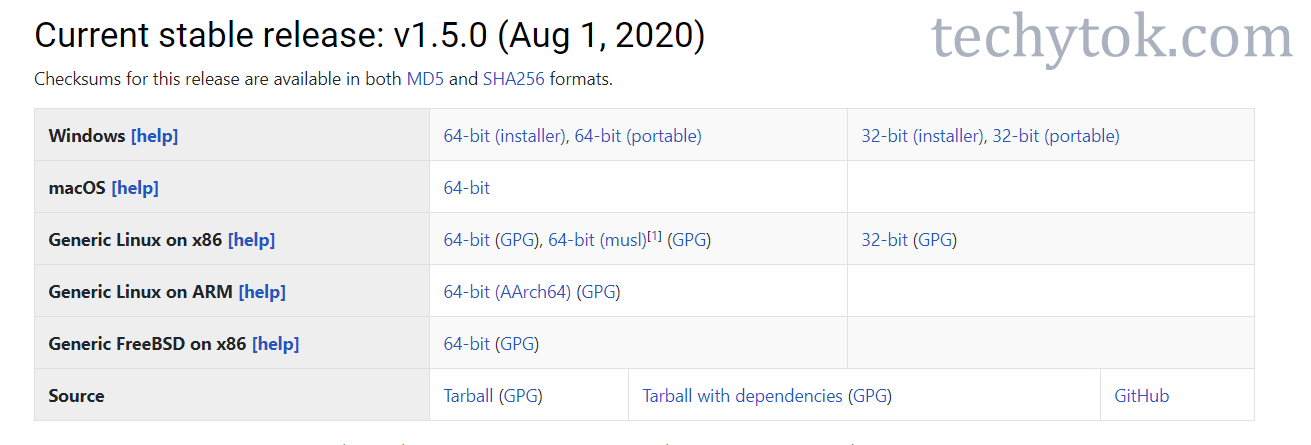
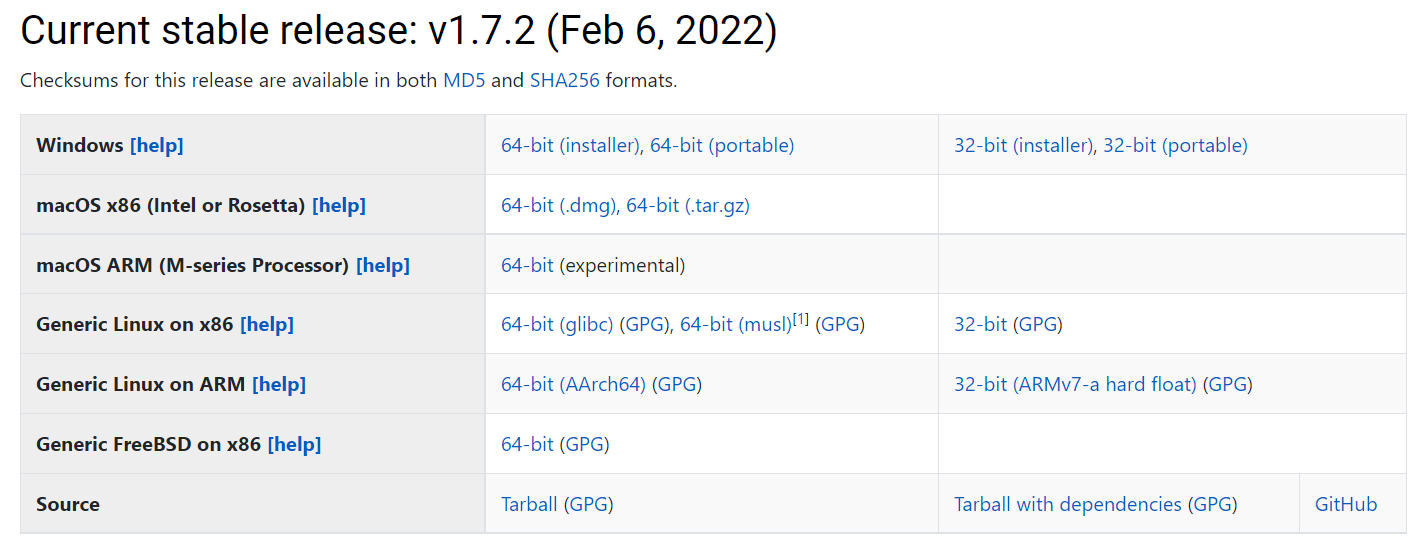
up

diff --git a/_posts/2021-12-21-coding-workflow.md b/_posts/2021-12-21-coding-workflow.md
@@ -302,6 +302,81 @@ This is a REPL which runs "inside" the namespace of the function. This means tha
 
 Please note that you can also change the value of any of the variables which exist inside the function, for example by writing `a .+= 2` . This is a double-edged sword and you have to pay attention to what you are doing if you are evaluating code inside the function context. Anyway, if you commit some mistakes, you can always restart the function debugging, so nothing you do in the debug console is permanent. 
 
+# Function profiling
+This section is an excerpt from the [code optimisation](https://techytok.com/code-optimisation-in-julia) lesson. 
+
+Profiling is the practice of measuing the execution time and memory usage of each part of a piece of code, in order to better understand how to optimise it. 
+In this section we will learn how to find the bottlenecks in the execution of a function, so that we know which parts of the function should be optimised. 
+
+As you probably already know, it is possible to measure the execution time of a function using the `@time` macro or preferably  `@btime` (which is included in the package `BenchmarkTools`). They are useful when we want to measure a single function call, but they give no information on what is making a function slow. For this reason we need a tool that enables us to identify which line of code is responsible for the bottleneck.
+
+Luckily there are two exceptional packages which help us in profiling: `Profile` and the Julia IDE for VSCode. Both of the tools will run the desired function once and will log the execution time of each line of code.
+
+`Profile` works completely in the REPL and will produce a log file. On the other hand, with the support of VSCode we will be able to display the profiling information in a graph.
+
+## Profile
+
+Let's write two new functions which perform heavy calculations:
+
+```julia
+function take_a_breath()
+    sleep(0.2)
+    return
+end
+
+function test8()
+    r=zeros(100,100)
+    take_a_breath()
+    for i in 1:100
+        A=rand(100,100)
+        r+=A
+    end
+    return r
+end
+```
+
+We shall now profile `test8`:
+
+```julia
+using Profile
+test8()
+Profile.clear()
+@profile test8()
+Profile.print()
+```
+
+If you see a log file extraordinarily long, run line 2 to 4 again as it is possible that you have profiled the compilation of some functions and not `test8`.
+{: .notice--info}
+
+You should see something like:
+
+![image-center](/assets/images/2019/10/26/profiler_log.png){: .align-center}
+
+The number 8 (which may vary) is an indication of how long a function runs. We also have a 1 and a 4, so probably this block is the one responsible for the bottleneck. Profile thus gives you a hint that at line 101 (line 8 of the code snippet) there is a bottleneck: who would have imagined that sleeping for 22ms would have been a slow down?
+
+Unfortunately using `Profile.print()` is not really user friendly and for this reason VSCode comes in our help!
+
+After having called `test8` again,  to make sure that the function has been properly compiled, we call the profile viewer macro `@profview`
+
+```julia
+test8()
+@profview test8()
+```
+
+If you have done everything correctly, a new panel should open on the right side of VSCode and you should see something like this:
+
+![image-center](/assets/images/2019/10/26/profiler.png){: .align-center}
+
+This list will show you at a glance which are the functions which take more time in your code (in our case, the `sleep` or `wait` function) and you can easily evaluate which are the bottlenecks. 
+
+It is also possible to display the profiling graphic as a  fire graphic. In order to do it, click on the small fire icon on the top right corner of the profiling window (you might have to install an extension). You will see something like this:
+
+![image-center](/assets/images/2019/10/26/flame_profiler.png){: .align-center}
+
+In this case, the flame graph is not that informative, since the function is extremely simple, but it is a handy tool when profiling complex functions. The graph should be read from the top to the bottom. The functions on the top usually call the functions under them. If more than one function is involved you will see several branches and the graph will become more complex.
+
+I encourage you to hover your mouse pointer on the functions in the fire graph: you will see the run time of each function involved and you are also able to jump to each function definition. In many cases, the profiler will also add a note on top of the called functions stating how long it took to run them. In order to scroll the flame graph, press `ALT` and use the scroll wheel, or click and drag the plot. To zoom on a region of the flame graph, point to it and use the scroll wheel. 
+
 # Problem tab
 
 VSCode will also suggest you if there are some possible problems with your code. For example, you might have called a function with the wrong arguments, or redefined a constant. It is possible to see all the possible problems with your code in the `Problems` tab:

diff --git a/_posts/2020-08-10-julia-vscode.md b/_posts/2020-08-10-julia-vscode.md
@@ -1,6 +1,6 @@
 ---
 title: "VSCode: the future for Julia development"
-date: 2020-08-10
+date: 2022-04-28
 header:
   caption: "[julia-vscode.org](https://www.julia-vscode.org/)"
   image: "/assets/images/2020/08/10/header.jpg"
@@ -36,17 +36,22 @@ In this tutorial we will first learn how to install Julia and then we will setup
 
 # Install Julia
 
-Depending on your operating system, you will need to download the appropriate Julia package from [julialang.org/downloads/](https://julialang.org/downloads/). It is suggested that you install the latest stable version (currently 1.5)
+Depending on your operating system, you will need to download the appropriate Julia package from [julialang.org/downloads/](https://julialang.org/downloads/). It is suggested that you install the latest stable version (currently 1.7)
 
 ![image-center](/assets/images/2020/08/10/fig1-julia-download.png){: .align-center}
 
 If you have **Windows** or **OSX**, just download and run the installer and follow the instructions. When you are prompted to choose an installation directory, I suggest you to choose your home directory: this way it will be easier when time comes to upgrade Julia to the next version. Nonetheless, the default directory should be fine. **Please take note of where you installed Julia**, since we will need this path when we setup VSCode.
 
-If you are a **Linux** user, you should download and extract the archive into an appropriate folder (pay attention to the architecture of the binaries you are downloading!). 
+If you are a **Linux** user, you should download and extract the archive into an appropriate folder (pay attention to the architecture of the binaries you are downloading!). Usually a good option is to unpack the julia binaries in your home directory. 
 
 ![image-center](/assets/images/2020/08/10/fig1b-julia-installation.png){: .align-center}
 
-You can find additional information on how to install Julia [here](https://julialang.org/downloads/platform/). I don't advise adding Julia to your system path unless you need to call Julia from the command line and you know what you are doing. 
+You can find additional information on how to install Julia [here](https://julialang.org/downloads/platform/). 
+I advise you to add julia to path during the installation (Windows) to make it easier to configure VSCode, and to call Julia directly from the terminal. If you use [Mac](https://julialang.org/downloads/platform/#macos) or [Linux](https://julialang.org/downloads/platform/#linux_and_freebsd), I advise you to add julia to path by editing your `.bashrc` or `.zshrc` and adding something like this (properly modified in accordance to where you saved the julia binary):
+```
+export PATH="$PATH:/path/to/<Julia directory>/bin"
+```bash
+
 
 Once you have installed Julia successfully, you can move to the next section: installing VSCode!
 
@@ -54,7 +59,7 @@ Once you have installed Julia successfully, you can move to the next section: in
 
 ![image-center](/assets/images/2020/08/10/fig2-vscode.png){: .align-center}
 
-You can get VSCode from its download page: https://code.visualstudio.com/Download
+You can get VSCode from its download page: [https://code.visualstudio.com/Download](https://code.visualstudio.com/Download)
 
 Please run the installer and start VSCode.
 
@@ -148,7 +153,8 @@ Whenever you feel like you need to add a note to the code, just add a `#` at the
 
 If you are new to coding, I suggest you to make a `.jl` file for each one of your small projects. In that file, you will write all your functions on the top, and use them on the bottom part of the script. If you decide to group your code in cells (`#%%`), which I strongly advise when you are writing your first pieces of code,  you should write a small annotation before every cell to remember what they do. 
 
-For more informations about the Julia extension for VSCode, please visit the [official website](https://www.julia-vscode.org/) and read the [documentation](https://www.julia-vscode.org/docs/stable/). At the time of writing this guide, the documentation for the Julia VSCode extension is not yet complete and many pages are still missing since many new features are being ported from Juno to VSCode, but in the near future you can expect a rich and complete documentation. 
+If you are interested to see some of the more advanced features of VSCode, please refere to the lesson on [VSCode workflow](https://techytok.com/lesson-workflow/) and [profiling](https://techytok.com/code-optimisation-in-julia/#profile). 
+For more informations about the Julia extension for VSCode, please visit the [official website](https://www.julia-vscode.org/) and read the [documentation](https://www.julia-vscode.org/docs/stable/). At the time of writing this guide, the documentation for the Julia VSCode extension is not yet complete and many pages are still missing since many new features are being ported from Juno to VSCode, but in the near future you can expect a rich and complete documentation.
 
 
 # Conclusions

diff --git a/_posts/2019-11-01-introduction.md b/_posts/2019-11-01-introduction.md
@@ -30,7 +30,7 @@ Before we can start delving in the wonderful world of Julia, we need to be able 
 
 We will deal with two ways to run Julia code: the first one is through the Julia REPL, the latter is through the Juno IDE.
 
-To install Julia and the Juno IDE, please follow [this]( https://techytok.com/atom-and-juno-setup-for-julia/ ) guide!
+To install Julia and VSCode, please follow [this]( https://techytok.com/julia-vscode/ ) guide!
 
 # REPL
 
@@ -52,11 +52,11 @@ That's it, during the next lessons simply type the code snippets inside the REPL
 
 Although you can copy paste the code, I encourage you to type it yourself as it is useful to better remember the lesson!
 
-# Juno IDE
+# VSCode
 
-Sometimes, especially when your code starts to become pretty lengthy, it is useful to organise it in scripts, i.e. files ending with the `.jl` extension. The Juno IDE lets you edit such files and run them directly line by line from the editor.
+Sometimes, especially when your code starts to become pretty lengthy, it is useful to organise it in scripts, i.e. files ending with the `.jl` extension. VSCode lets you edit such files and run them directly line by line from the editor.
 
-To run a line of code, simply click on the line and press `Ctrl+Enter`.
+To run a line of code, simply click on the line and press `Alt+Enter`.
 
 To run a block of code altogether, include it between `#%%` annotations like this:
 
@@ -70,8 +70,8 @@ println("TechyTok!")
 
 and press `Alt-Shift-Enter `.
 
-I encourage you to take a look at the [official documentation]( https://docs.junolab.org/latest/man/basic_usage/ ) for further details on how to use the Juno IDE.
+I encourage you to take a look at the [official documentation]( https://www.julia-vscode.org/ ) for further details on how to use VSCode.
 
 # Conclusions
 
-You should now be able to run Julia code either in the REPL or inside the Juno IDE and you are now ready to move on to the first real lesson on Julia!
+You should now be able to run Julia code either in the REPL or inside VSCode and you are now ready to move on to the first real lesson on Julia!

diff --git a/_posts/2019-10-26-code-optimisation-in-julia.md b/_posts/2019-10-26-code-optimisation-in-julia.md
@@ -211,6 +211,7 @@ Variables
 As you can see `r` at the beginning is an `Int64` and then is converted into a `Float64`, which slows down the function. In this case it is enough to declare `r=0.00` to solve the problem.
 
 # Function profiling
+Profiling is the practice of measuing the execution time and memory usage of each part of a piece of code, in order to better understand how to optimise it. 
 
 In this section we will learn how to find the bottlenecks in the execution of a function, so that we know which parts of the function should be optimised.
 
